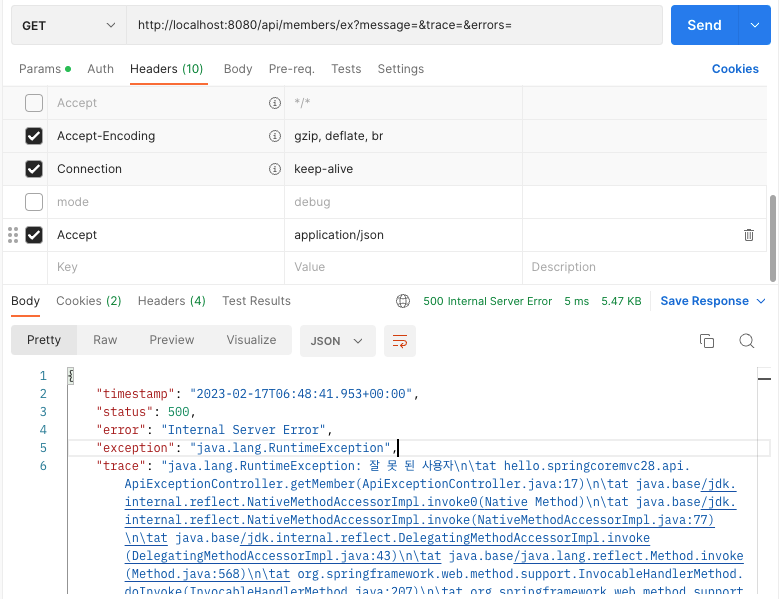
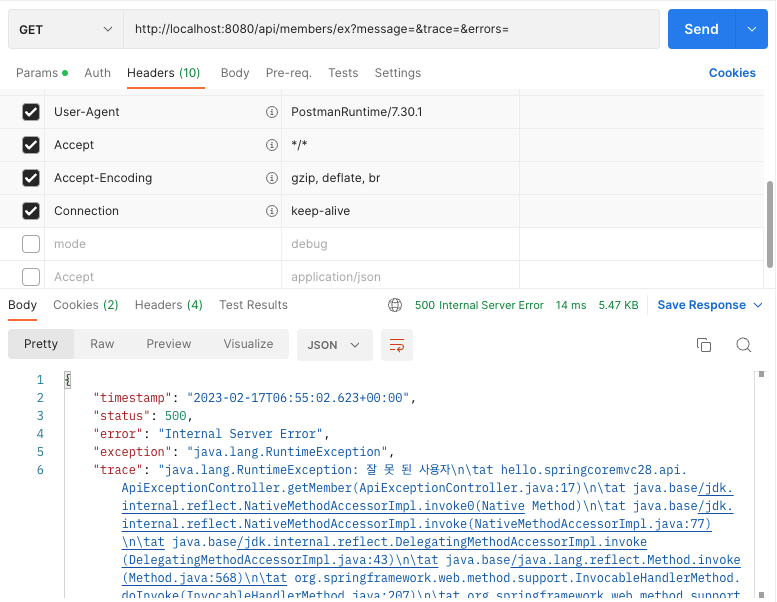
9강: API 예외 처리 - 스프링 부트 기본 오류 처리 - 이미지 변경, 참고 추가

diff --git a/강의/9강/README.md b/강의/9강/README.md
@@ -354,6 +354,13 @@ Accept-Header: */*
 < src/main/resources/templates/error/500.html >
 ```
 
+#### 참고 - Postman, 브라우저의 기본 설정
+
+| Name    | Accept-Header                    | Content-Type     |
+|---------|----------------------------------|------------------|
+| Postman | `*/*`                            | application/json |
+| Browser | text/html, application/xhtml, .. | None             |
+
 ## HandlerExceptionResolver 시작
 
 ## HandlerExceptionResolver 활용
